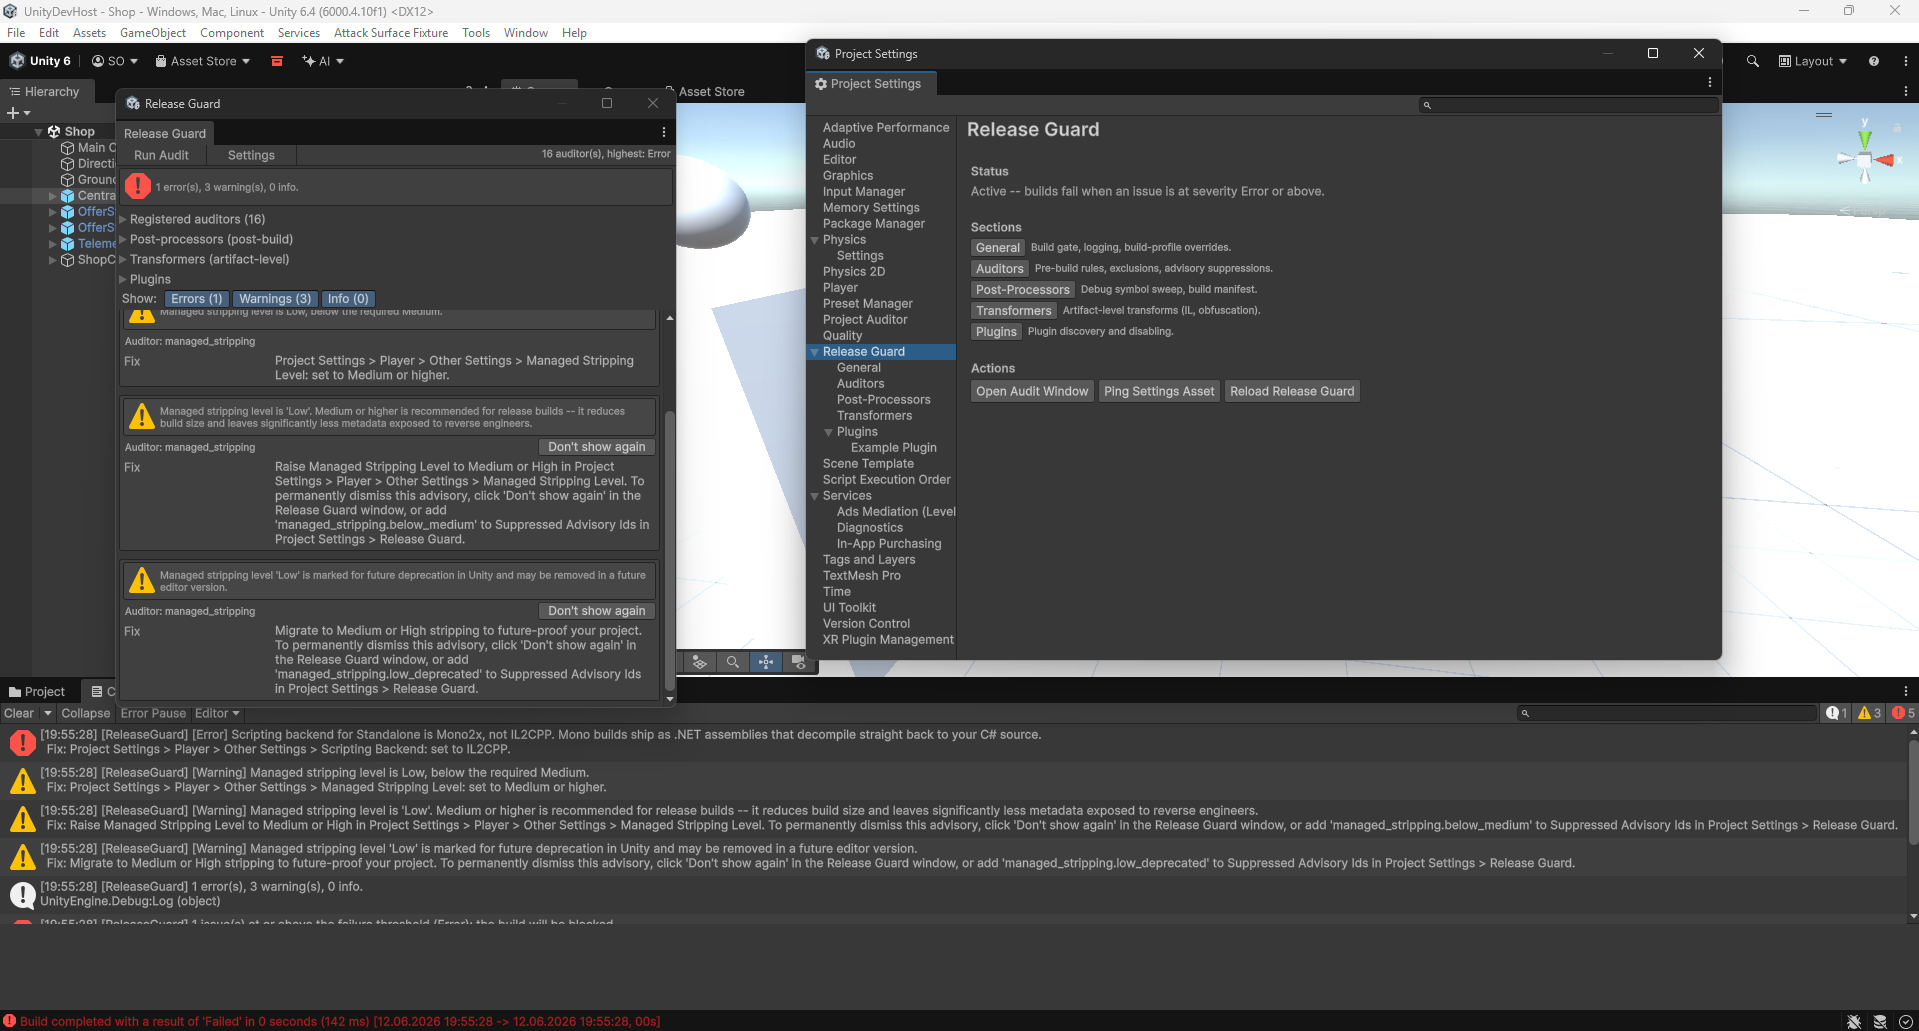
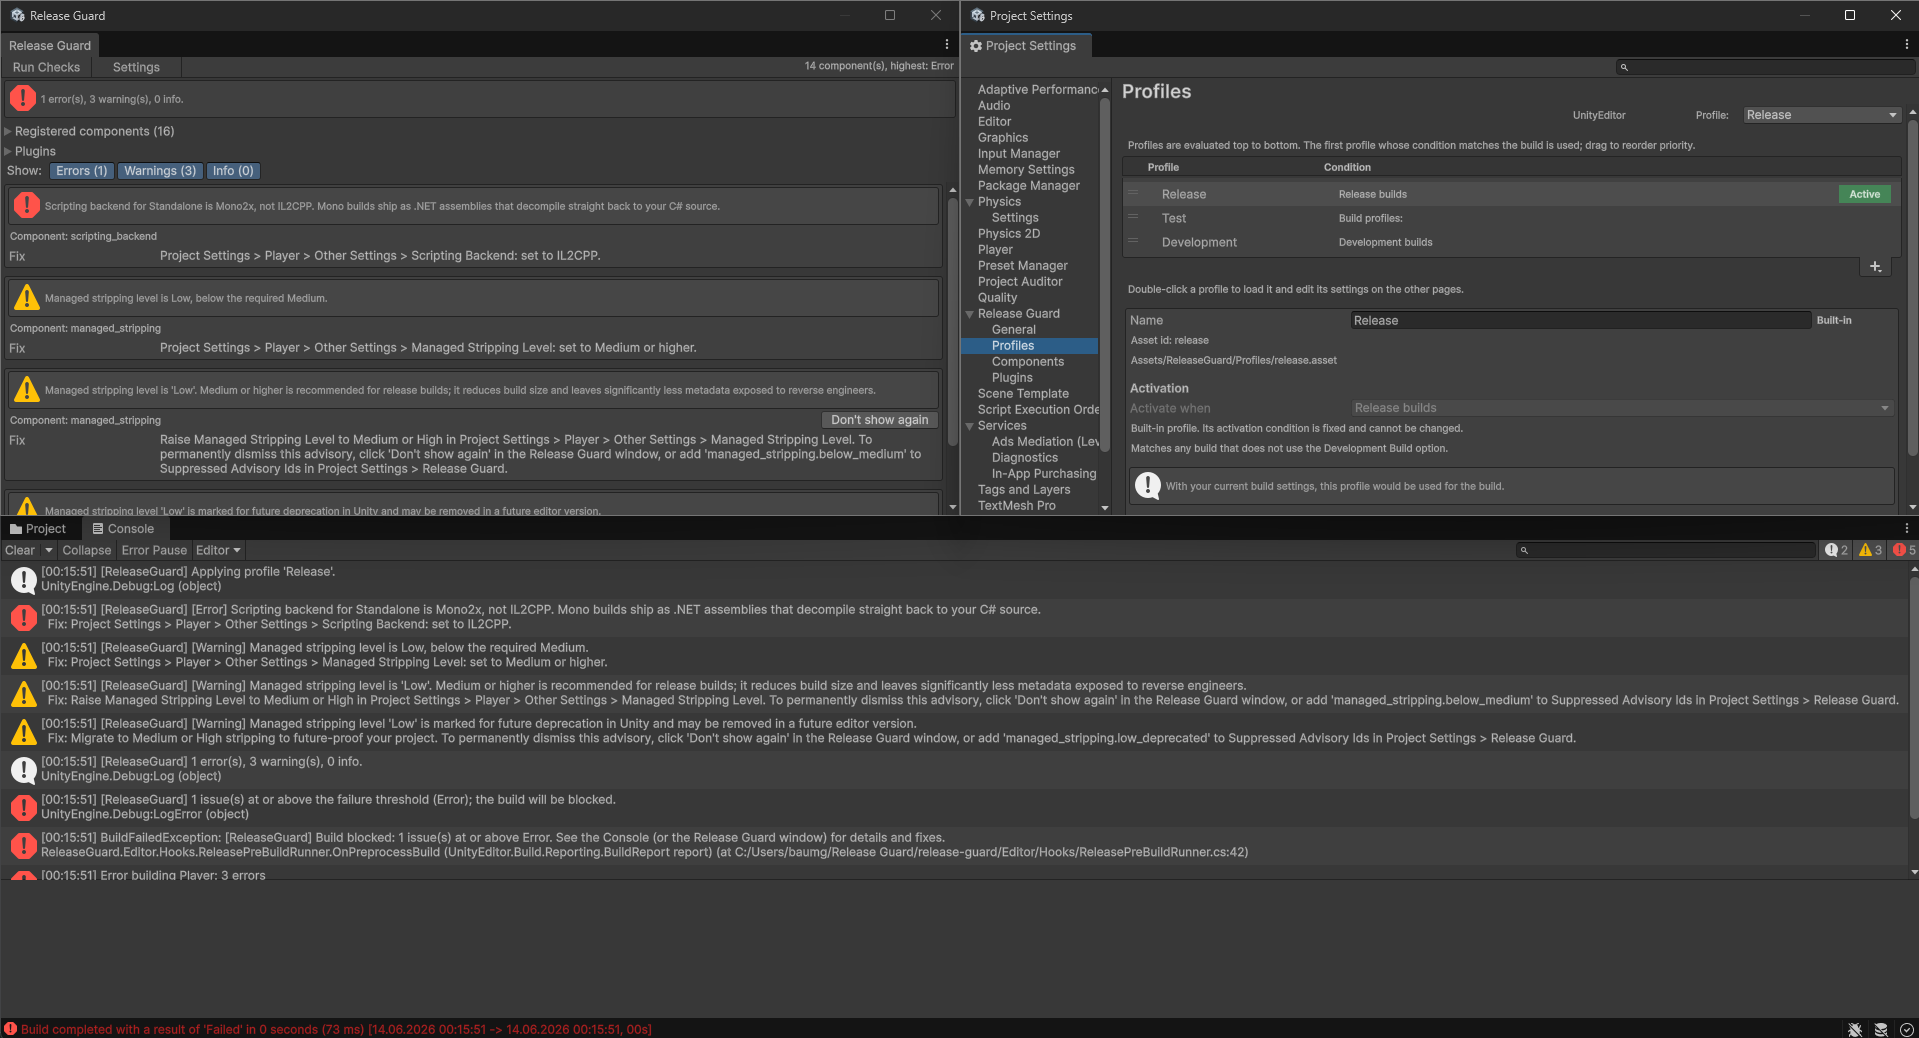
chore: update package metadata, Unity dev host, and CI for 0.2.0
Bumps package.json version and keywords to reflect the new component model. Updates
openupm-package.yml and sync-readme workflow. Updates the UnityDevHost sample plugin
and default settings asset to use the new profile-based registry layout.

diff --git a/UnityDevHost/Assets/ExamplePlugin/ExampleAuditor.cs b/UnityDevHost/Assets/ExamplePlugin/ExampleAuditor.cs
@@ -1,8 +1,9 @@
-using ReleaseGuard.Editor.Core.Audit;
+using ReleaseGuard.Editor.Core.Components;
+using ReleaseGuard.Editor.Core.PreBuild;
 
 namespace ExamplePlugin
 {
-    public sealed class ExampleAuditor : ReleaseAuditor
+    public sealed class ExampleAuditor : ReleaseGuardComponent
     {
         private readonly ExamplePluginSettings _settings;
 
@@ -11,14 +12,17 @@ namespace ExamplePlugin
         public override string Id => "com.example.example_auditor";
         public override string DisplayName => "Example Auditor";
 
-        public override bool ShouldRun(ReleaseAuditContext context) =>
-            _settings != null && _settings.strictMode;
+        public override void Register(ReleaseGuardComponentBinder binder) =>
+            binder.OnPreBuild(releaseEvent => Evaluate(releaseEvent.Context));
 
-        public override void Evaluate(ReleaseAuditContext context)
+        private void Evaluate(ReleaseGuardPreBuildContext context)
         {
+            if (_settings is null || !_settings.strictMode)
+                return;
+
             context.Report(
-                _settings?.findingSeverity ?? ReleaseGuard.ReleaseIssueSeverity.Warning,
-                "Example auditor fired — disable Strict Mode in Project Settings → Release Guard → Plugins → Example Plugin to silence this.");
+                _settings.findingSeverity,
+                "Example auditor fired. Disable Strict Mode in Project Settings > Release Guard > Plugins > Example Plugin to silence this.");
         }
     }
 }

diff --git a/UnityDevHost/Assets/ExamplePlugin/ExamplePlugin.cs b/UnityDevHost/Assets/ExamplePlugin/ExamplePlugin.cs
@@ -15,7 +15,7 @@ namespace ExamplePlugin
         public override void Register(PluginRegistrationContext context)
         {
             var settings = GetSettings<ExamplePluginSettings>();
-            context.ReleaseGuard.Registries.Auditors.Register(new ExampleAuditor(settings));
+            context.ReleaseGuard.Registries.Components.Register(new ExampleAuditor(settings));
         }
     }
 
@@ -29,7 +29,7 @@ namespace ExamplePlugin
     {
         static ExamplePluginLoader()
         {
-            DI.Resolve<ReleaseGuardEnvironment>().RegisterPlugin(new ExamplePlugin());
+            ReleaseGuardDI.Resolve<ReleaseGuardEnvironment>().RegisterPlugin(new ExamplePlugin());
         }
     }
 }